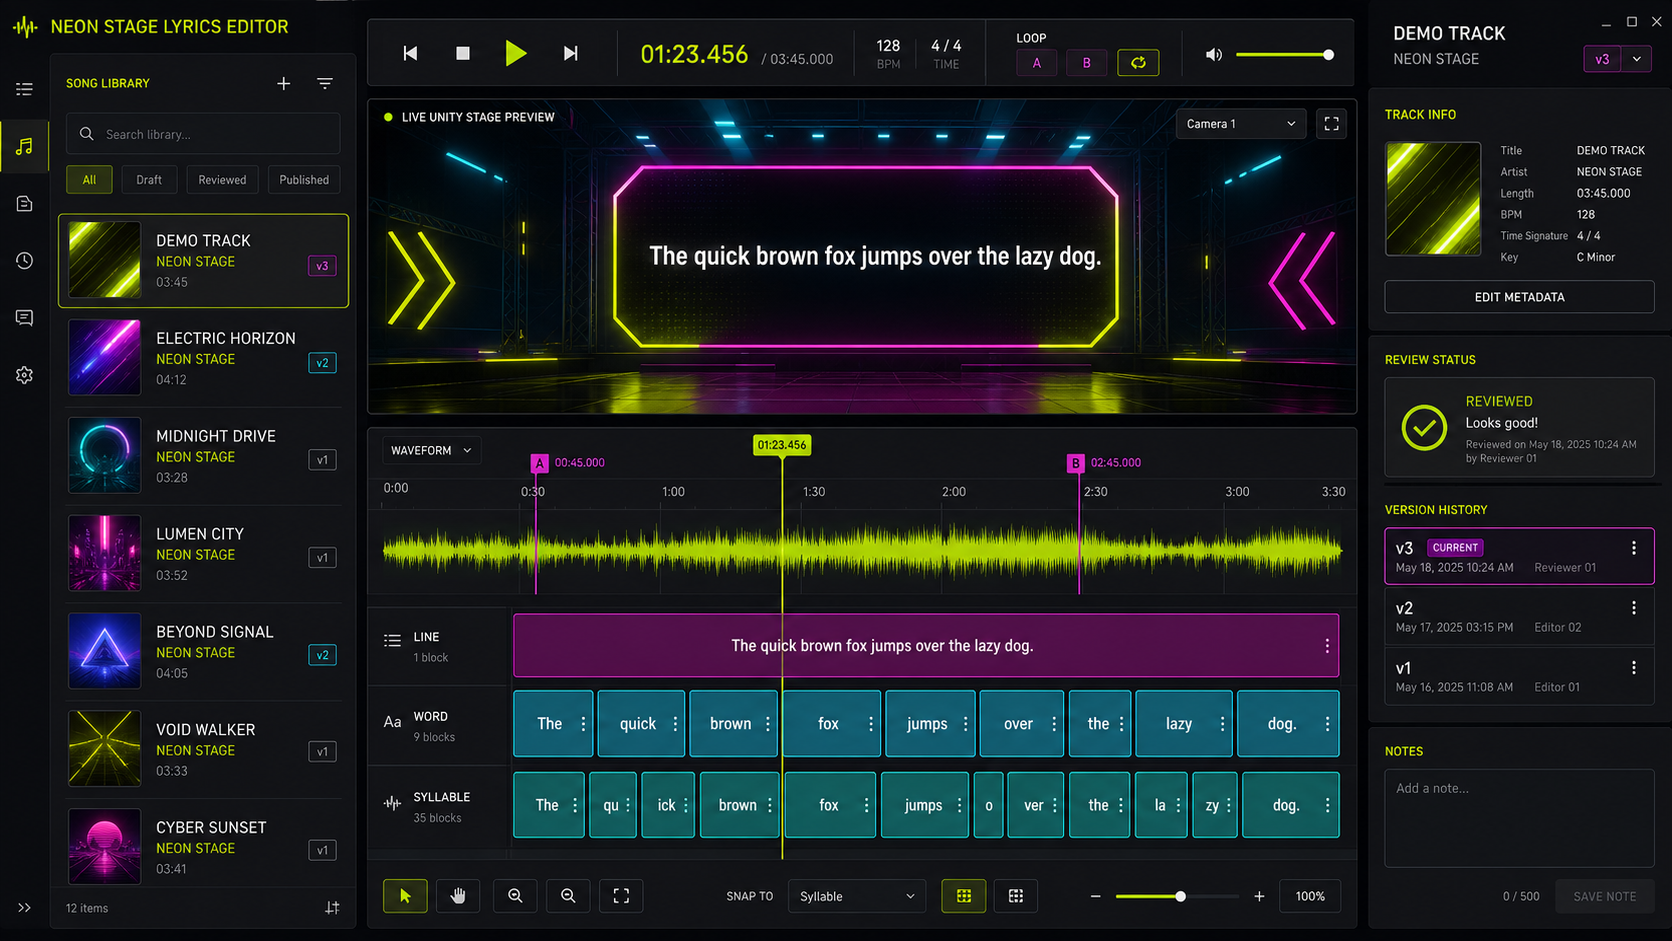
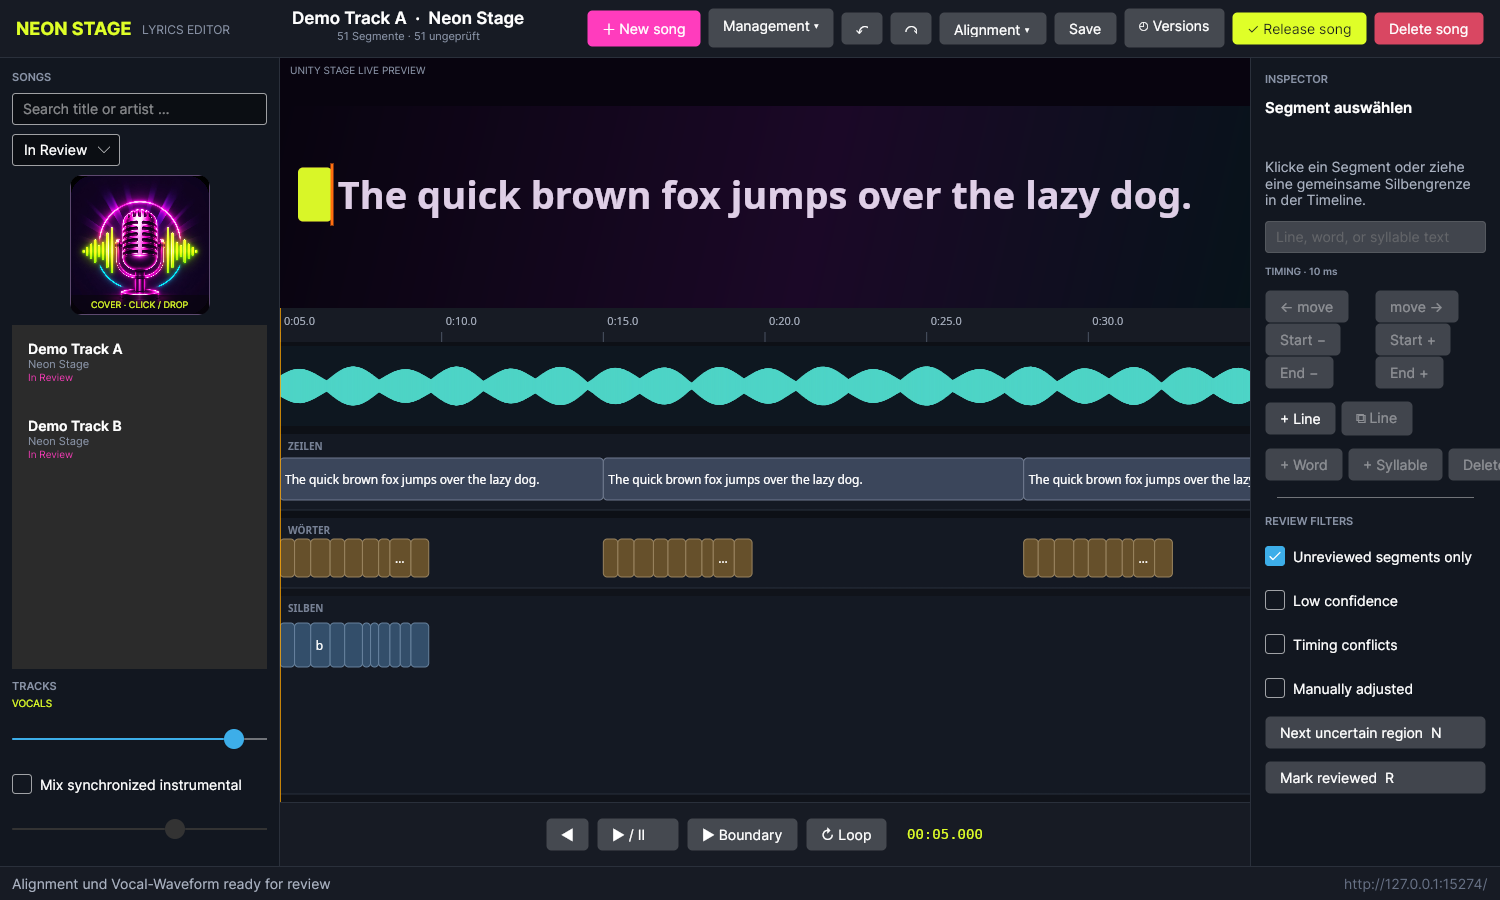
Replace mockups with real app screenshots

diff --git a/site/index.html b/site/index.html
@@ -25,7 +25,7 @@
     </section>
     <section id="experience" class="section"><p class="eyebrow">ONE PARTY · ONE FLOW</p><h2>From invitation to the final chorus.</h2><div class="cards"><article><b>01</b><h3>Scan & join</h3><p>Scan the QR code, choose a name, and participate without installing an app.</p></article><article><b>02</b><h3>Queue the night</h3><p>Search the library, request missing tracks, and shape the running order together.</p></article><article><b>03</b><h3>Own the stage</h3><p>Word-timed lyrics, separate stems, live reactions, and reactive visuals create the game feeling.</p></article></div></section>
     <section id="showcase" class="section showcase">
-      <p class="eyebrow">SEE IT IN ACTION</p><h2>Every screen has a role.</h2><p class="showcase-note">Safe product mockups generated with abstract artwork and the standard pangram “The quick brown fox jumps over the lazy dog.” No real songs, lyrics, artists, or library data are shown.</p>
+      <p class="eyebrow">SEE IT IN ACTION</p><h2>Every screen has a role.</h2><p class="showcase-note">Real captures of the current Unity stage and Avalonia editor, recorded against an isolated synthetic demo library. The only lyric-like text is the standard pangram “The quick brown fox jumps over the lazy dog.” No real songs, lyrics, artists, or production library data are shown.</p>
       <div class="product-shots">
         <figure class="shot product-shot"><img src="assets/stage-demo.png" alt="Neon Stage Unity stage demo with placeholder lyrics" loading="lazy"><figcaption><b>Unity Stage</b><span>Reactive visuals, QR invitation, stem controls, and smooth word progress.</span></figcaption></figure>
         <figure class="shot product-shot"><img src="assets/editor-demo.png" alt="Neon Stage Lyrics Editor demo with placeholder lyrics" loading="lazy"><figcaption><b>Lyrics Editor</b><span>Waveform, stage preview, version history, review workflow, and word/syllable timing.</span></figcaption></figure>

diff --git a/site/assets/README.md b/site/assets/README.md
@@ -1,24 +1,27 @@
 # Website asset provenance
 
-`stage-demo.png` and `editor-demo.png` are AI-generated product mockups created
-for the Neon Stage documentation on 2026-07-27 using OpenAI image generation.
-They are not captures of a production media library.
+`stage-demo.png` and `editor-demo.png` are real captures of the current Neon
+Stage Unity application and Avalonia Lyrics Editor, recorded on 2026-07-27.
+Both applications were connected to an isolated temporary server and a
+synthetic two-track demo library, never to a production media library.
 
 Safety constraints used for both images:
 
 - no real song titles, artist names, lyrics, or cover artwork;
+- locally generated test audio instead of copyrighted recordings;
 - no people or third-party logos;
-- neutral `DEMO TRACK` / `NEON STAGE` metadata;
+- project-owned Neon Stage artwork as the cover;
+- neutral `Demo Track A` / `Demo Track B` and `Neon Stage` metadata;
 - the standard pangram “The quick brown fox jumps over the lazy dog.” as the
   only lyric-like sentence.
 
-The mockups are distributed with the project under its Apache-2.0 license to
-the extent applicable. The Neon Stage name and branding remain subject to the
-trademark limitation stated in the project license documentation.
+The screenshots are distributed with the project under its Apache-2.0 license
+to the extent applicable. The Neon Stage name and branding remain subject to
+the trademark limitation stated in the project license documentation.
 
 SHA-256:
 
 ```text
-2bf26c4b8780519dadb4502f69f9af54aee029a57bb3456fa818e198a5b10a83  stage-demo.png
-4a9c208c12e2fdbafadcf8c0046372ad54dfeffbd07fcc910284fb6ecbad7283  editor-demo.png
+19a34dc8bb264e07d4f608ce49225e0cf2427a9fca1c7a8066932865fc21a60c  stage-demo.png
+377d42d96c44803af68572cda401d13933f22c1a8d4acc5a4873c3791b8ebf92  editor-demo.png
 ```

diff --git a/README.md b/README.md
@@ -36,10 +36,11 @@ development: [Support Neon Stage on Ko-fi](https://ko-fi.com/Z6Q023YEX5).
 
 ## Screens
 
-The screenshots use generated demo artwork and the pangram
-“The quick brown fox jumps over the lazy dog.” They contain no real songs,
-artist material, production library data, or real lyrics; all displayed track
-names are fictional demo metadata.
+These are real captures of the current Unity stage and Avalonia editor running
+against an isolated synthetic demo library. The test audio was generated
+locally, the cover uses project-owned artwork, and the only lyric-like text is
+the pangram “The quick brown fox jumps over the lazy dog.” No real songs,
+artist material, production library data, or real lyrics are shown.
 
 ![Neon Stage Unity stage demo with safe placeholder lyrics](site/assets/stage-demo.png)
 
